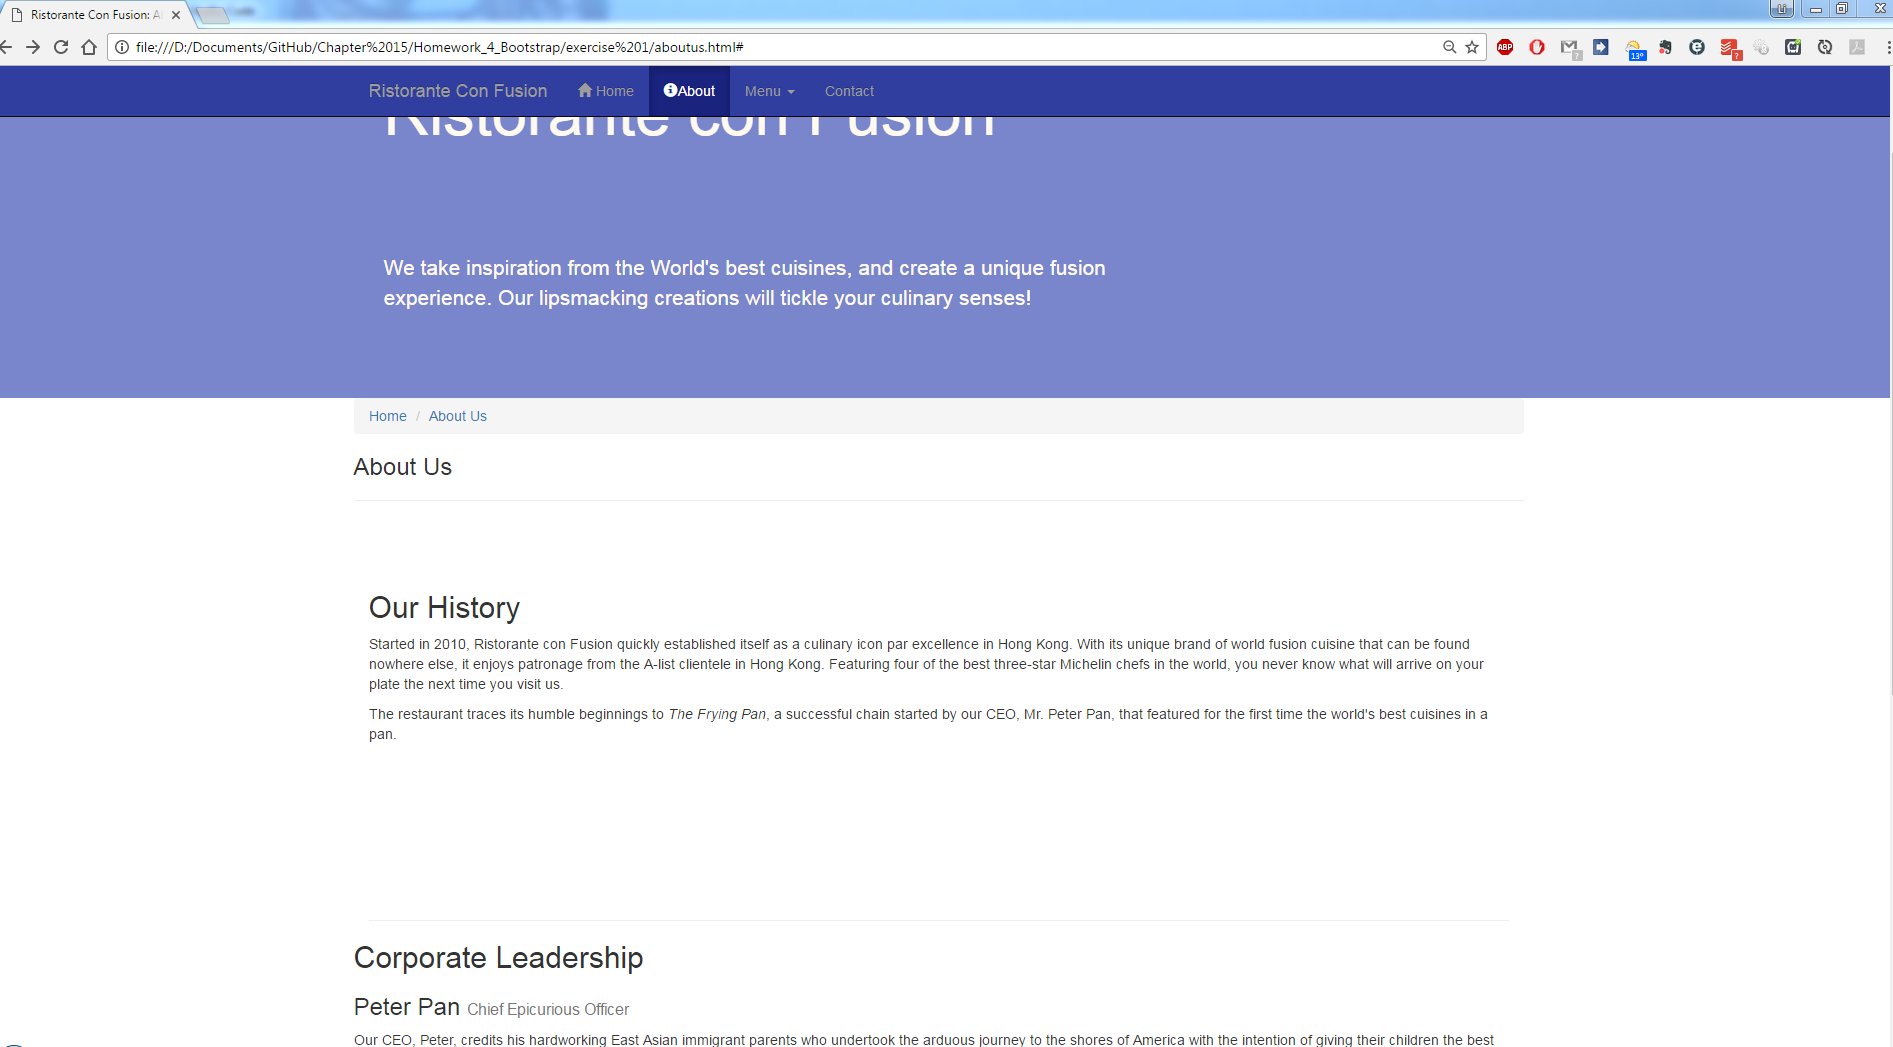
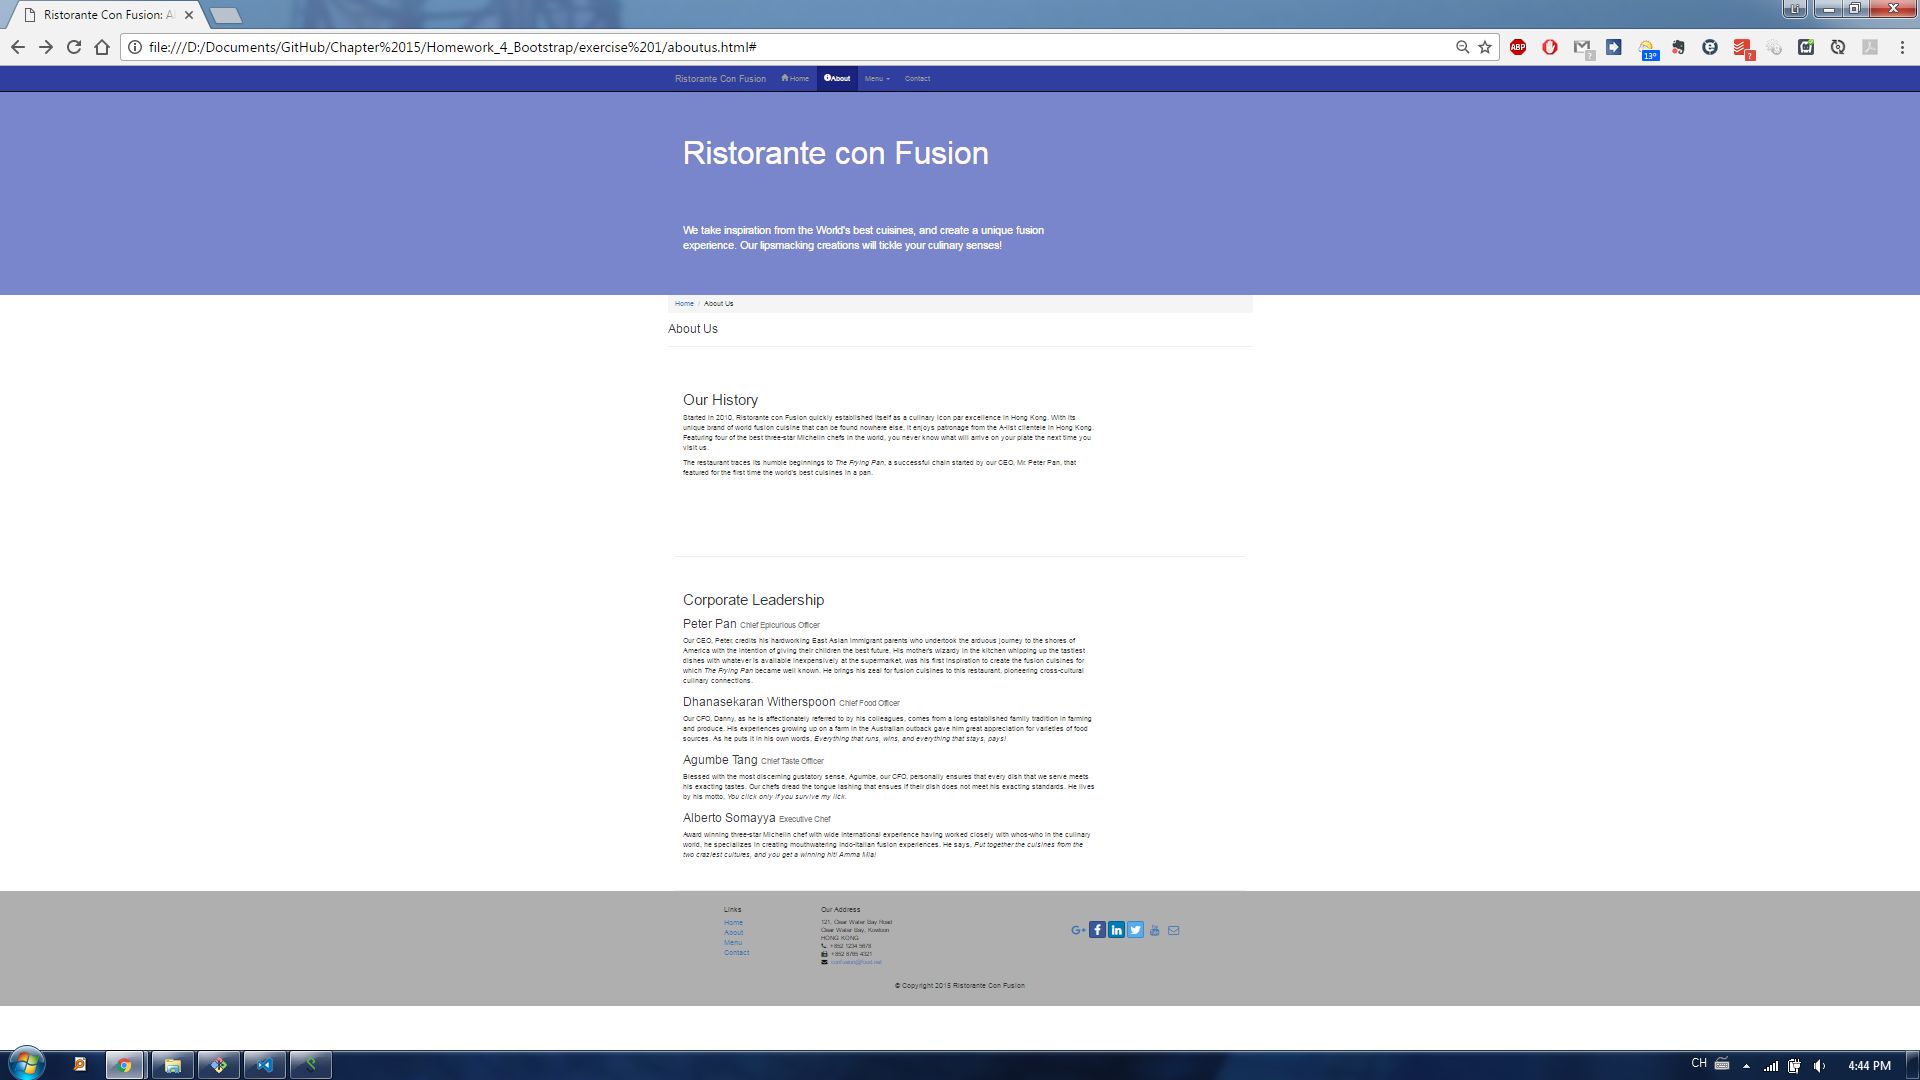
modify according to comments

diff --git a/Homework_4_Bootstrap/exercise 1/aboutus.html b/Homework_4_Bootstrap/exercise 1/aboutus.html
@@ -8,6 +8,8 @@
     <!-- The above 3 meta tags *must* come first in the head; any other head 
          content must come *after* these tags -->
     <title>Ristorante Con Fusion: About Us</title>
+    <script src="https://ajax.googleapis.com/ajax/libs/jquery/3.1.1/jquery.min.js"></script>
+    <link rel="stylesheet" href="https://maxcdn.bootstrapcdn.com/bootstrap/3.3.7/css/bootstrap.min.css">
     <!-- Bootstrap -->
     <link href="css/bootstrap.min.css" rel="stylesheet">
     <link href="css/bootstrap-theme.min.css" rel="stylesheet">
@@ -35,7 +37,7 @@
                     <span class="icon-bar"></span>
                     <span class="icon-bar"></span>
                 </button>
-                <a class="navbar-brand" href="#">Ristorante Con Fusion</a>
+                <a class="navbar-brand" href="./index.html">Ristorante Con Fusion</a>
             </div>
             <div id="navbar" class="navbar-collapse collapse">
                 <ul class="nav navbar-nav">
@@ -85,7 +87,7 @@
             <div>
                 <ol class="breadcrumb">
                     <li><a href="./index.html">Home</a></li>
-                    <li><a href="#">About Us</a></li>
+                    <li>About Us</li>
                 </ol>
             </div>
             <div>
@@ -95,7 +97,7 @@
         </div>
 
         <div class="row row-content">
-            <div>
+            <div class="col-xs-12 col-sm-9">
                 <h2>Our History</h2>
                 <p>Started in 2010, Ristorante con Fusion quickly established itself as a culinary icon par excellence in Hong
                     Kong. With its unique brand of world fusion cuisine that can be found nowhere else, it enjoys patronage
@@ -110,8 +112,8 @@
         </div>
 
 
-        <div class="row">
-            <div>
+        <div class="row row-content">
+            <div class="col-xs-12 col-sm-9">
                 <h2>Corporate Leadership</h2>
                 <h3>Peter Pan <small>Chief Epicurious Officer</small></h3>
                 <p>Our CEO, Peter, credits his hardworking East Asian immigrant parents who undertook the arduous journey to
